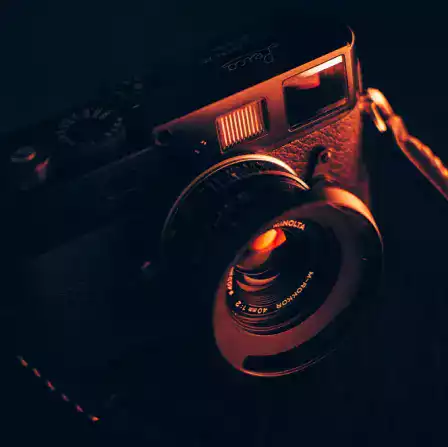
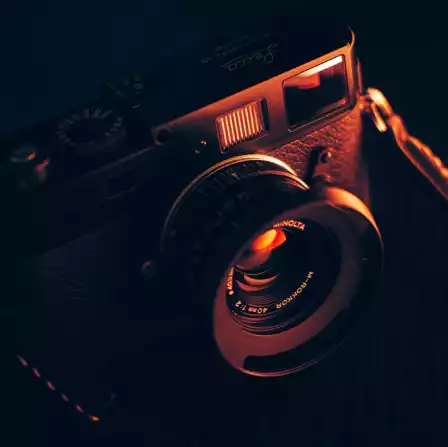
amélioration style + nouvelle compression des images

diff --git a/assets/style.min.css b/assets/style.min.css
@@ -1,1 +1,1 @@
-body{max-width:1920px;margin:auto}*{font-family:'Inter';font-style:normal}.top-header{background-color:white;position:sticky;top:0;z-index:1000;display:flex;justify-content:space-between;padding-inline:100px;padding-block:30px;align-items:center}.top-header .name{font-size:26px}.nav ul{display:flex;list-style-type:none;font-size:14px;margin-bottom:0}.nav li{padding-inline:10px}.nav a{text-decoration:none;color:#000}.social-link img{width:20px}#about{display:flex;background-color:#f6d2b8;padding-inline:100px;padding-block:100px;position:relative}.picture.left::before{content:' ';background-color:#e5975f;width:374px;height:329px;position:absolute;bottom:0;left:0;z-index:-1}.picture{flex:1;margin:0 20px;z-index:0}.picture img{width:100%}#about-me{flex:2}.about-me__title{margin-top:1em;margin-bottom:60px;font-size:30px}.about-me__introduction{font-family:'Spectral';font-weight:800;font-style:italic;width:60%}#about-me p{width:80%;font-size:14px}.title{text-align:center;padding-block:2em}.gallery .nav{justify-content:center}.nav-pills .nav-link.active,.nav-pills .show>.nav-link{color:#fff;background-color:#5e5926;border-radius:0}.nav-pills .nav-link{color:#000}.item-column{position:relative;margin-bottom:0 !important;padding:0}.item-column::after{content:"";display:block;padding-bottom:100%}.gallery-item{position:absolute;width:100%;height:100%;object-fit:cover;padding:.5em}.mg-prev,.mg-next{width:30px;height:30px;border-radius:00%;justify-content:center;align-items:center;display:flex;font-size:24px}.quote{font-family:'Spectral';font-style:italic;width:70%;margin:auto;padding-block:3em}.quote__text{font-family:Spectral;font-style:italic;font-weight:300}.quote__author{font-family:Spectral;font-weight:800;font-size:22px}#services{margin:auto;background-color:#a8d5d8;position:relative}#services .container::before{content:' ';background-color:#1c6474;position:absolute;width:100%;height:30%;bottom:0;left:0;z-index:0}#services .container{justify-content:space-between;display:flex;padding:2em 0}.service{background-color:white;max-width:390px;width:30%;height:337px;padding:1em;display:flex;flex-direction:column;justify-content:space-between;z-index:1}#contact{margin:auto;background-color:#d8d3a8;position:relative;padding-inline:100px;padding-block:100px}#contact .container{display:flex}.picture.right::before{content:' ';background-color:#beb45a;width:374px;height:329px;position:absolute;bottom:0;right:0;z-index:-1}.form-container{flex:2}form{display:flex;flex-direction:column;width:70%;align-items:flex-start}form input{width:100%;background-color:transparent;border:solid 1px;height:2.5em;margin-bottom:20px}form textarea{width:100%;background-color:transparent;border:solid 1px;height:5em;line-height:2.5em;font-size:1.2em;margin-bottom:20px}input[type="submit"]{background-color:#beb45a;padding:.5em 1em}@media all and (max-width:1180px){.picture{flex:2}#about,#contact .container{align-items:center}.about-me__title{margin-top:0;margin-bottom:1em}#about-me h6,#about-me p{width:100%}}@media all and (max-width:1000px){#about{flex-direction:column}.picture{width:50%}.picture.left::before{width:100%;height:30%;position:absolute;bottom:auto;top:0;left:0;z-index:-1}.about-me__title{text-align:center;margin-top:1em}#services .container{flex-direction:column}.service{width:100%;max-width:100%;height:auto;margin:2em 0}.service__description{margin-bottom:1em}#services .container::before{width:30%;height:100%;bottom:0;right:0;left:auto;z-index:0}#contact .container{flex-direction:column}#contact .picture.right{margin-top:1em}.picture.right::before{width:100%;height:30%;position:absolute;bottom:0;right:0;z-index:-1}}@media all and (max-width:650px){.top-header{flex-direction:column;padding-inline:0}.top-header .nav,.top-header .nav ul{width:100%;padding:0}.top-header .nav li{flex:1;padding-block:1em;text-align:center}.picture.left::before,.picture.right::before{height:150px}#services .container{align-items:center}.service{max-width:90%}#about,#contact{padding-inline:2em;padding-block:2em}form{width:100%}.picture{width:80%}}
+*{font-family:'Inter';font-style:normal}body{max-width:1920px;margin:auto}img{max-width:100%;height:auto}.top-header{background-color:white;position:sticky;top:0;z-index:1000;display:flex;justify-content:space-between;padding-inline:100px;padding-block:30px;align-items:center}.top-header .name{font-size:26px}.nav ul{display:flex;list-style-type:none;font-size:14px;margin-bottom:0}.nav li{padding-inline:10px}.nav a{text-decoration:none;color:#000}.social-link img{width:20px}#about{display:flex;background-color:#f6d2b8;padding-inline:100px;padding-block:100px;position:relative}.picture.left::before{content:' ';background-color:#e5975f;width:374px;height:329px;position:absolute;bottom:0;left:0;z-index:-1}.picture{flex:1;margin:0 20px;z-index:0}.picture img{width:100%}#about-me{flex:2;text-align:justify}.about-me__title{margin-top:1em;margin-bottom:60px;font-size:30px}.about-me__introduction{font-family:'Spectral';font-weight:800;font-style:italic;width:60%;font-size:16px}#about-me p{width:80%;font-size:14px}.title{text-align:center;padding-block:2em}.gallery .nav{justify-content:center}.nav-pills .nav-link.active,.nav-pills .show>.nav-link{color:#fff;background-color:#5e5926;border-radius:0}.nav-pills .nav-link{color:#000;cursor:pointer}.item-column{position:relative;margin-bottom:0 !important;padding:0}.item-column::after{content:"";display:block;padding-bottom:100%}.gallery-item{position:absolute;width:100%;height:100%;object-fit:cover;padding:.5em}.mg-prev,.mg-next{width:30px;height:30px;border-radius:00%;justify-content:center;align-items:center;display:flex;font-size:24px}.quote{font-family:'Spectral';font-style:italic;width:70%;margin:auto;padding-block:3em}.quote__text{font-family:Spectral;font-style:italic;font-weight:300}.quote__author{font-family:Spectral;font-weight:800;font-size:22px}#services{margin:auto;background-color:#a8d5d8;position:relative}#services .container::before{content:' ';background-color:#1c6474;position:absolute;width:100%;height:30%;bottom:0;left:0;z-index:0}#services .container{justify-content:space-between;display:flex;padding:2em 0}.service{background-color:white;max-width:390px;width:30%;height:337px;padding:1em;display:flex;flex-direction:column;justify-content:space-between;z-index:1}#contact{margin:auto;background-color:#d8d3a8;position:relative;padding-inline:100px;padding-block:100px}#contact .container{display:flex}.picture.right::before{content:' ';background-color:#beb45a;width:374px;height:329px;position:absolute;bottom:0;right:0;z-index:-1}.form-container{flex:2}form{display:flex;flex-direction:column;width:70%;align-items:flex-start}form input{width:100%;background-color:transparent;border:solid 1px;height:2.5em;margin-bottom:20px}form textarea{width:100%;background-color:transparent;border:solid 1px;height:5em;line-height:2.5em;font-size:1.2em;margin-bottom:20px}input[type="submit"]{background-color:#beb45a;padding:.5em 1em}@media all and (max-width:1180px){.picture{flex:2}#about,#contact .container{align-items:center}.about-me__title{margin-top:0;margin-bottom:1em}#about-me h6,#about-me p{width:100%}}@media all and (max-width:1000px){#about{flex-direction:column}.picture{width:50%}.picture.left::before{width:100%;height:30%;position:absolute;bottom:auto;top:0;left:0;z-index:-1}.about-me__title{text-align:center;margin-top:1em}#services .container{flex-direction:column}.service{width:100%;max-width:100%;height:auto;margin:2em 0}.service__description{margin-bottom:1em}#services .container::before{width:30%;height:100%;bottom:0;right:0;left:auto;z-index:0}#contact .container{flex-direction:column}#contact .picture.right{margin-top:1em}.picture.right::before{width:100%;height:30%;position:absolute;bottom:0;right:0;z-index:-1}}@media all and (max-width:650px){.top-header{flex-direction:column;padding-inline:0}.top-header .nav,.top-header .nav ul{width:100%;padding:0}.top-header .nav li{flex:1;padding-block:1em;text-align:center}.picture.left::before,.picture.right::before{height:150px}#services .container{align-items:center}.service{max-width:90%}#about,#contact{padding-inline:2em;padding-block:2em}form{width:100%}.picture{width:80%}}

diff --git a/index.html b/index.html
@@ -11,6 +11,8 @@
 	<link rel="preconnect" href="https://fonts.gstatic.com" crossorigin>
 	<link rel="stylesheet" href="./assets/bootstrap/bootstrap.min.css">
 	<link rel="stylesheet" href="./assets/style.min.css">
+	<link rel="preconnect" href="https://fonts.googleapis.com">
+	<link href="https://fonts.googleapis.com/css2?family=Inter&family=Spectral:ital,wght@0,400;1,300;1,400;1,800&display=swap" rel="stylesheet">
 
 	<!-- Open Graph Meta Tags -->
 	<meta property="og:type" content="website" />
@@ -67,21 +69,22 @@
 </head>
 
 <body>
-	<header>
-		<div class="top-header">
-			<h1 class="name">Nina Carducci</h1>
-			<div class="nav">   
-				<ul>
-					<li><a href="#about">À propos</a></li>
-					<li><a href="#gallery">Galerie</a></li>
-					<li><a href="#services">Service</a></li>
-					<li><a href="#contact">Contact</a></li>
-					<li><a class="social-link" href="https://www.instagram.com/ninacarducci.photo/?hl=fr" target="_blank">
-						<img src="assets/images/instagram-min.webp" width="20" height="20" alt="Logo Instagram" ></a>
-					</li>
-				</ul>
-			</div>
+	<header class="top-header">
+		<h1 class="name">Nina Carducci</h1>
+		<div class="nav">   
+			<ul>
+				<li><a href="#about">À propos</a></li>
+				<li><a href="#gallery">Galerie</a></li>
+				<li><a href="#services">Service</a></li>
+				<li><a href="#contact">Contact</a></li>
+				<li><a class="social-link" href="https://www.instagram.com/ninacarducci.photo/?hl=fr" target="_blank">
+					<img src="assets/images/instagram-min.webp" width="20" height="20" alt="Logo Instagram" ></a>
+				</li>
+			</ul>
 		</div>
+	</header>
+
+	<main>	
 		<div id="header">
 			<div id="carouselExampleIndicators" class="carousel slide" data-bs-ride="carousel">
 				<div class="carousel-indicators">
@@ -96,7 +99,7 @@
 						./assets/images/slider/1025/ryoji-iwata-min.webp 1025w,
 						./assets/images/slider/768/ryoji-iwata-min.webp 768w,
 						./assets/images/slider/320/ryoji-iwata-min.webp 320w"
-						width="1920" height="888" style="max-width: 100%; height: auto;" sizes="100vw"
+						width="1920" height="888" sizes="100vw"
 						class="d-block w-100" alt="Homme en costume sur le passage piéton">
 					</div>
 					<div class="carousel-item">
@@ -105,7 +108,7 @@
 						./assets/images/slider/1025/nicholas-green-min.webp 1025w,
 						./assets/images/slider/768/nicholas-green-min.webp 768w,
 						./assets/images/slider/320/nicholas-green-min.webp 320w"
-						width="1920" height="888" style="max-width: 100%; height: auto;" sizes="100vw"
+						width="1920" height="888" sizes="100vw"
 						class="d-block w-100" alt="Groupe de personnes dans un concert">
 					</div>
 					<div class="carousel-item">
@@ -114,7 +117,7 @@
 						./assets/images/slider/1025/edward-cisneros-min.webp 1025w,
 						./assets/images/slider/768/edward-cisneros-min.webp 768w,
 						./assets/images/slider/320/edward-cisneros-min.webp 320w"
-						width="1920" height="888" style="max-width: 100%; height: auto;" sizes="100vw"
+						width="1920" height="888" sizes="100vw"
 						class="d-block w-100" alt="Danse des mariés">
 					</div>
 				</div>
@@ -128,13 +131,10 @@
 				</button>
 			</div>
 		</div>
-	</header>
-
-	<main>	
 		<div id="about">
 			<div class="picture left">
 				<img src="./assets/images/nina-min.webp" width="470" height="469"  
-				style="max-width: 100%; height: auto;" alt="Portrait de la photographe Nina Carducci">
+				 alt="Portrait de la photographe Nina Carducci">
 			</div>
 			<div id="about-me">
 				<h2 class="about-me__title">A propos de moi</h2>
@@ -154,7 +154,7 @@
 					<img data-gallery-tag="Portrait" class="gallery-item" src="./assets/images/gallery/portraits/ade-tunji-min.webp" width="440" height="440" alt="Portrait d'un homme éblouit par le soleil"/>
 					<img data-gallery-tag="Mariages" class="gallery-item" src="./assets/images/gallery/mariage/jakob-owens-min.webp" width="440" height="440" alt="Les mariés se promenant sous les palmiers"/>
 					<img data-gallery-tag="Portrait" class="gallery-item" src="./assets/images/gallery/portraits/nino-van-prattenburg-min.webp"width="440" height="440"  alt="Portrait d'une femme portant des grosses lunettes"/>
-					<img data-gallery-tag="Concert" class="gallery-item" src="./assets/images/gallery/concerts/austin-neill-min.webp" width="440" height="440" alt="Chanteur dans la fumée"/>
+					<img data-gallery-tag="Concert" class="gallery-item" src="./assets/images/gallery/concerts/austin-neil-min.webp" width="440" height="440" alt="Chanteur dans la fumée"/>
 					<img data-gallery-tag="Entreprises" class="gallery-item" src="./assets/images/gallery/entreprise/mateus-campos-felipe-min.webp" width="440" height="440" alt="Femme heureuse dans son travail"/>
 				</div>
 			</div>
@@ -230,7 +230,7 @@
 					</form>
 				</div>
 				<div class="picture right">
-					<img src="./assets/images/camera-min.webp" width="448" height="447"  style="max-width: 100%; height: auto;" alt="Appareil photo">
+					<img src="./assets/images/camera-min.webp" width="448" height="447" alt="Appareil photo">
 				</div>
 			</div>
 		</div>

diff --git a/assets/style.css b/assets/style.css
@@ -1,11 +1,18 @@
-body {
-	max-width: 1920px;
-	margin: auto;
-}
 * {
 	font-family: 'Inter';
 	font-style: normal;
 }
+
+body {
+	max-width: 1920px;
+	margin: auto;
+}
+
+img {
+	max-width: 100%;
+	height: auto;
+ }
+
 .top-header {
 	background-color: white;
 	position: sticky;
@@ -72,8 +79,10 @@ body {
 
 }
 #about-me {
-	flex: 2
+	flex: 2;
+	text-align: justify;
 }
+
 .about-me__title {
 	margin-top: 1em;
 	margin-bottom: 60px;
@@ -84,15 +93,13 @@ body {
 	font-weight: 800;
 	font-style: italic;
 	width: 60%;
+	font-size: 16px;
 }
 #about-me p {
 	width: 80%;
 	font-size: 14px;
 }
 
-#gallery {
-	/*	min-height: 100vh; */
-}
 .title{
 	text-align: center;
 	padding-block: 2em;
@@ -106,7 +113,8 @@ body {
 	border-radius:0 ;
 }
 .nav-pills .nav-link {
-	color: #000
+	color: #000;
+	cursor: pointer;
 }
 .item-column {
 	position: relative;
